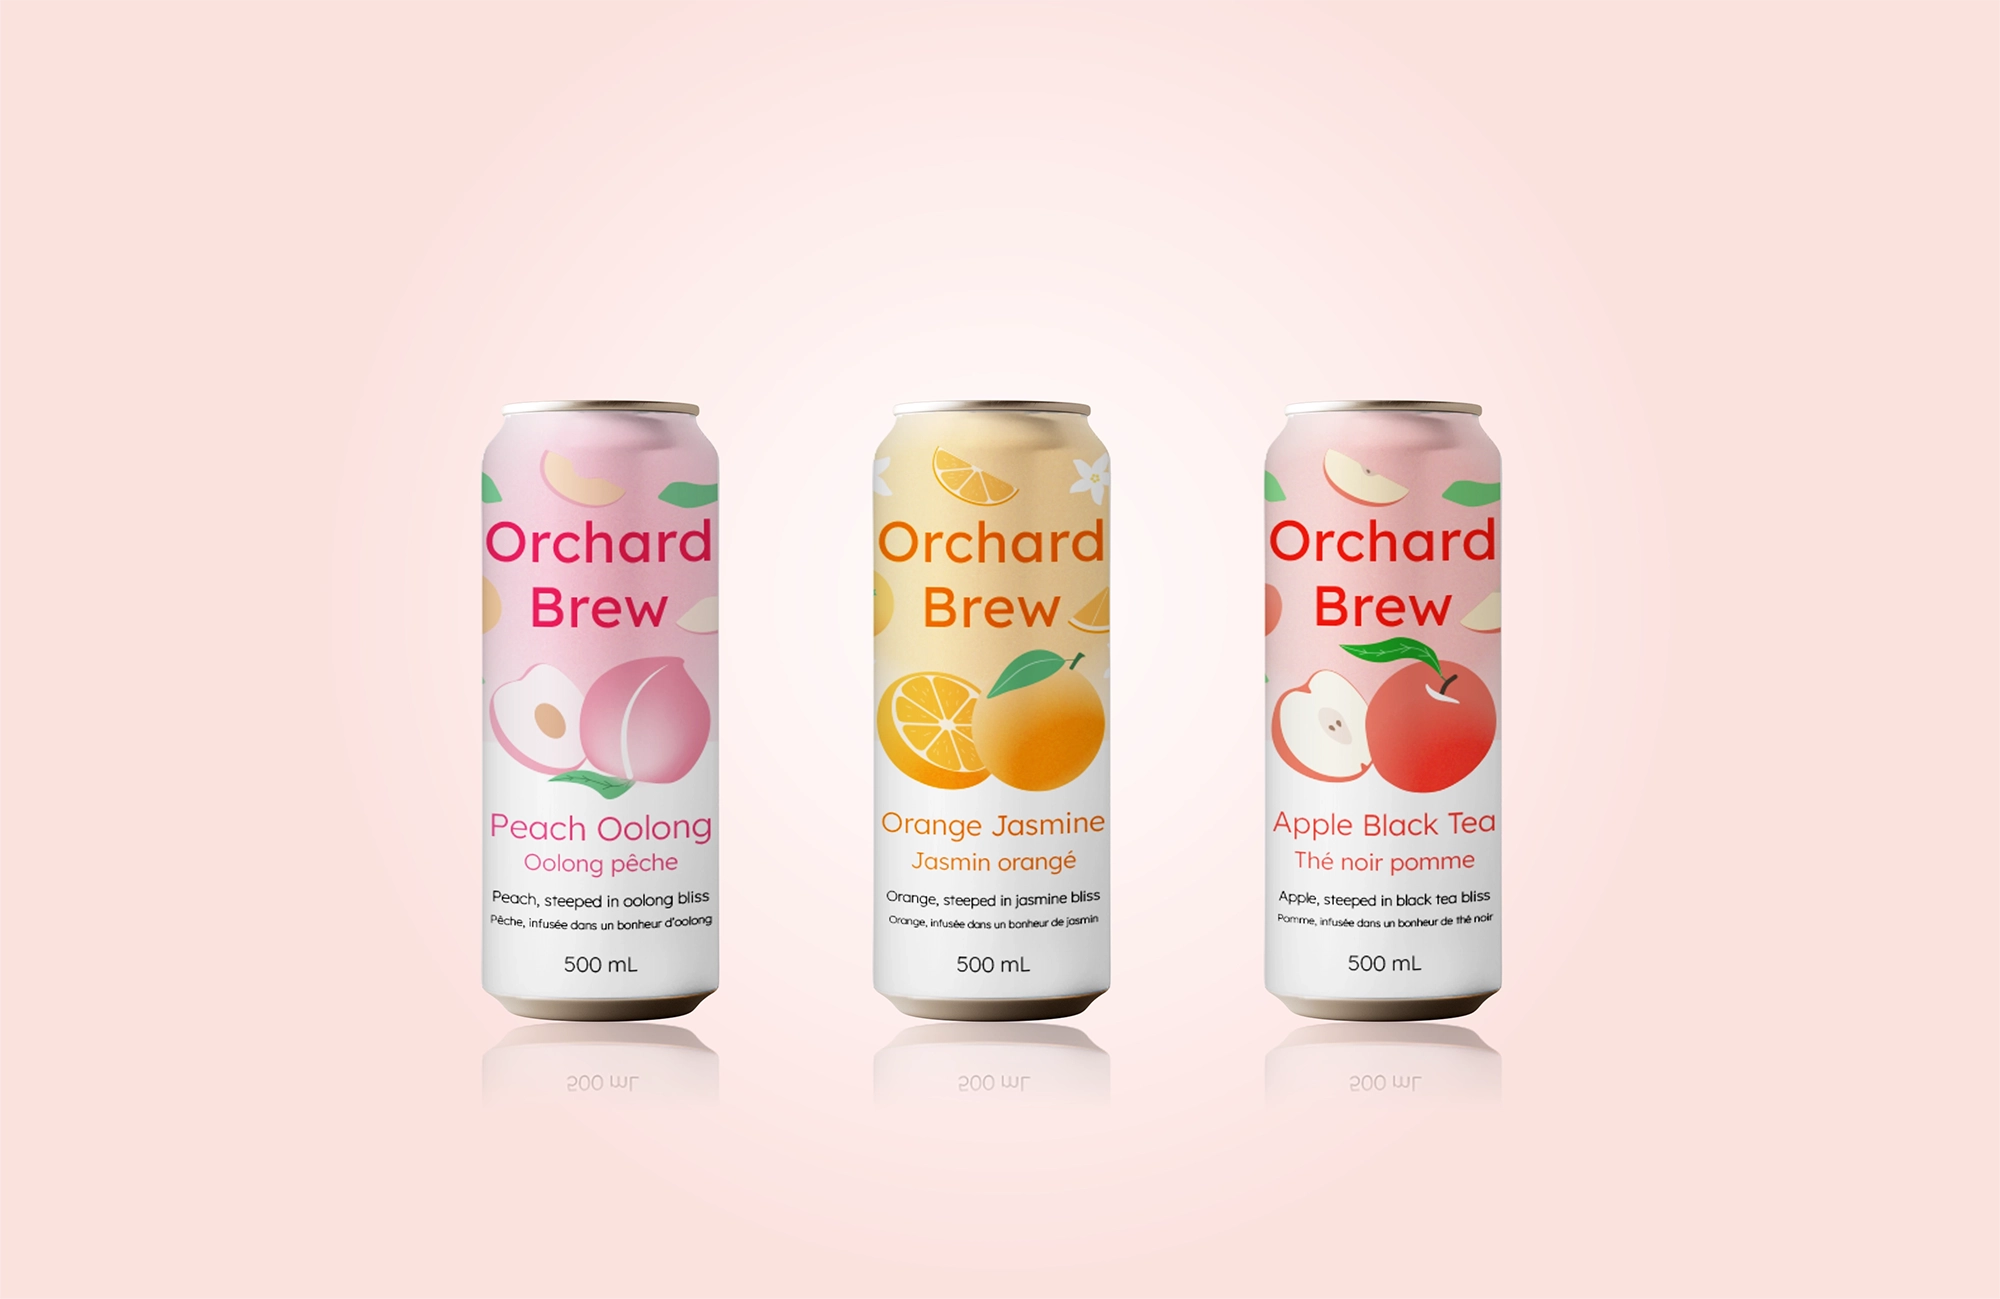
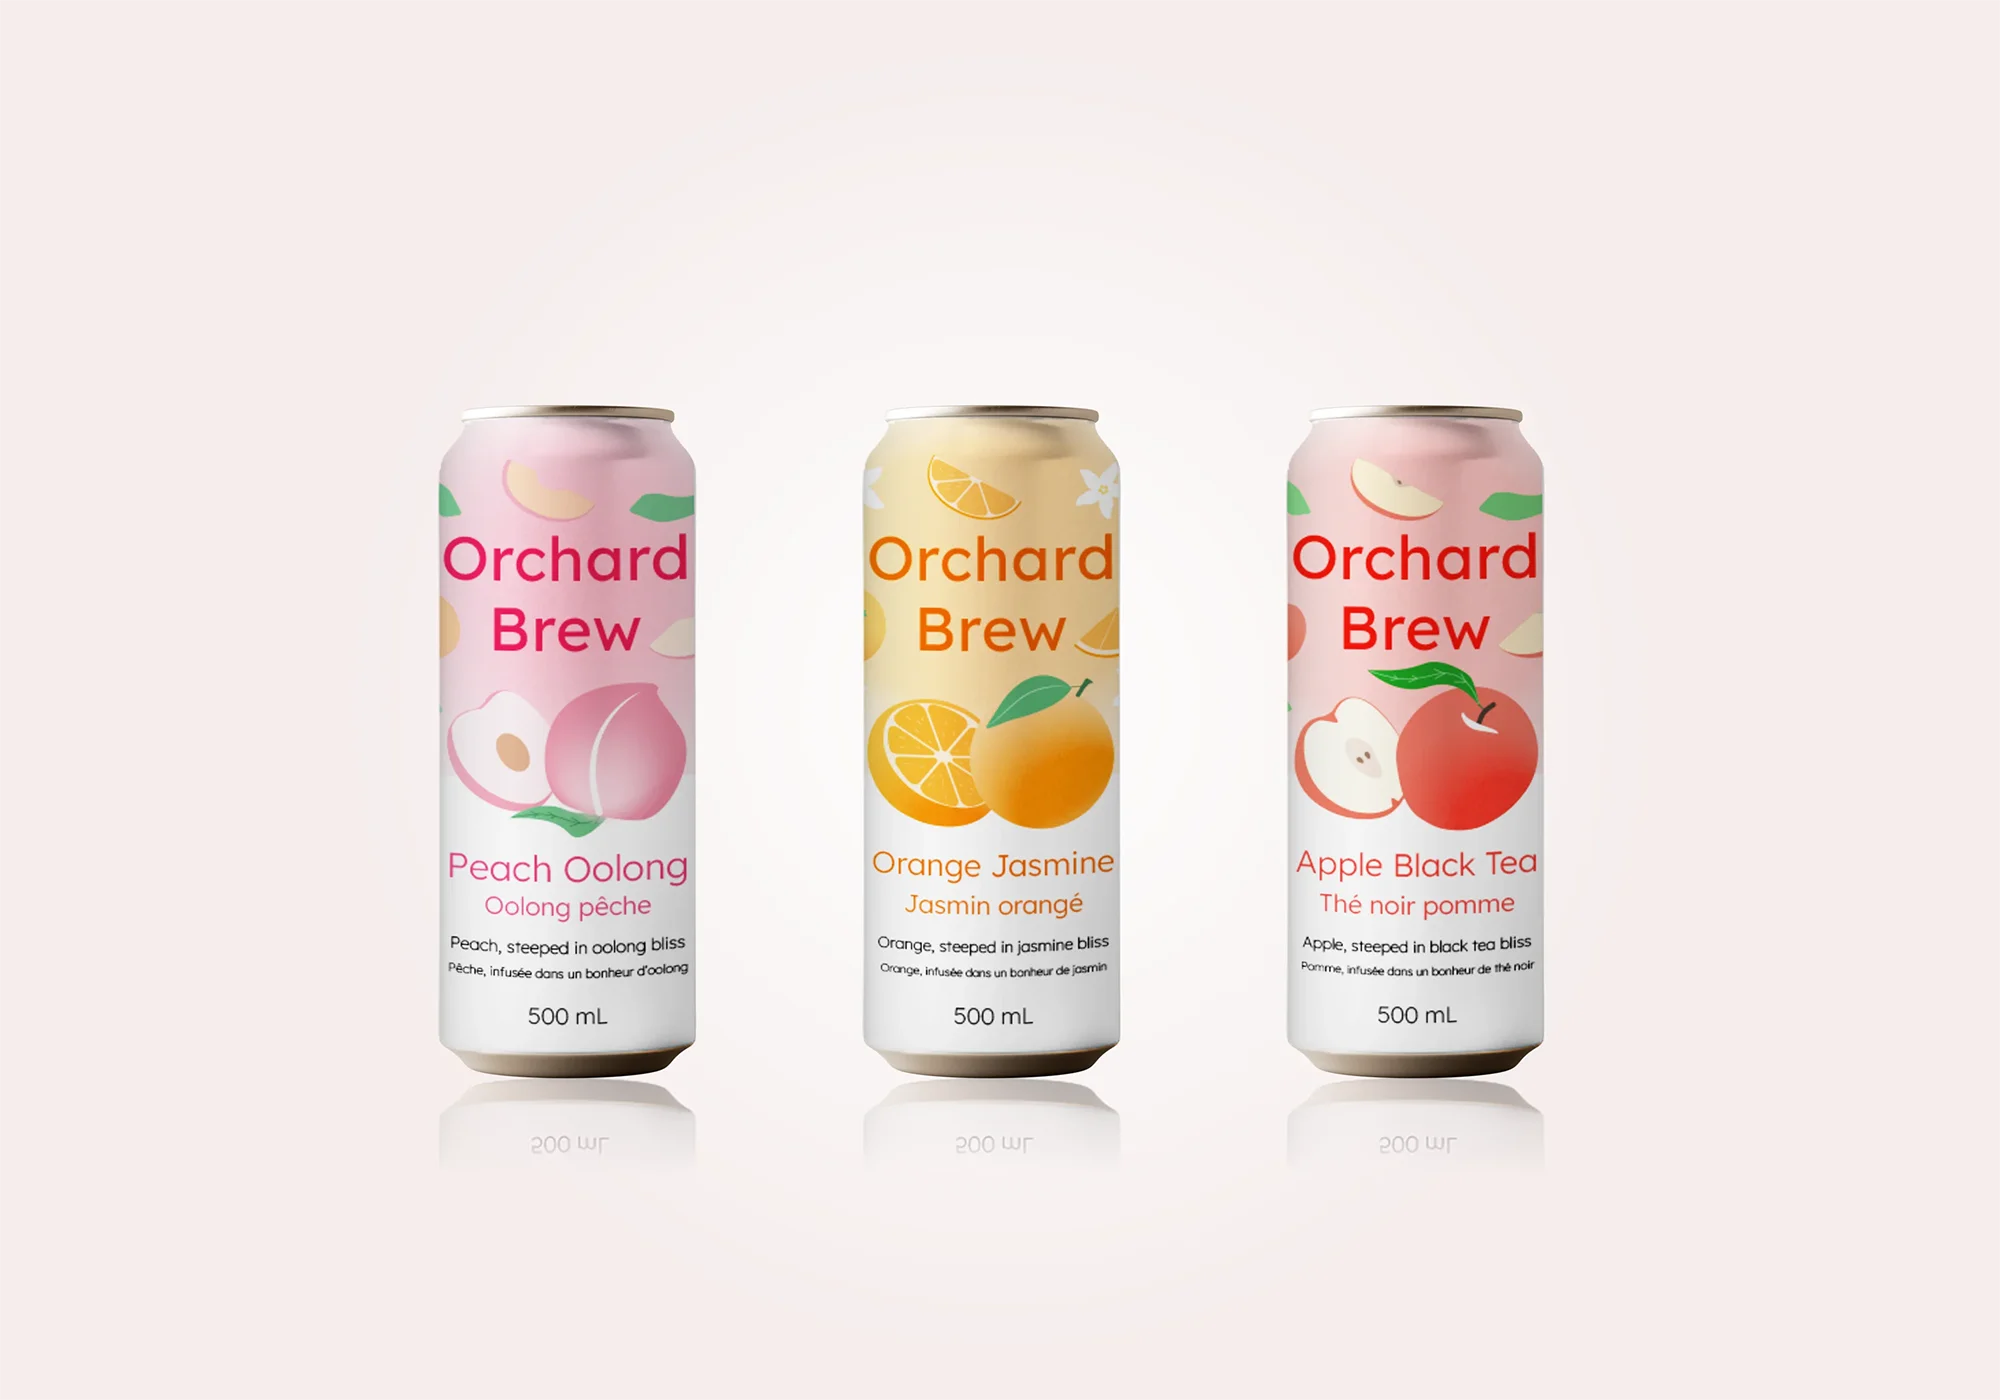
docs: update images

Changed region(s): [[0.217, 0.2771, 0.372, 0.8314], [0.62, 0.2771, 0.775, 0.8314], [0.434, 0.2771, 0.558, 0.8314]]

diff --git a/src/app/design/can-design/page.tsx b/src/app/design/can-design/page.tsx
@@ -4,7 +4,7 @@ import ParallaxImage from "@/components/ParallaxImage";
 import ProjectOverview from "@/components/ProjectOverview";
 import SectionDivider from "@/components/SectionDivider";
 import Image from "next/image";
-import HeroImg from "@/images/design/can-design/hero.webp";
+import HeroImg from "@/images/design/can-design/can-hero.webp";
 import LabelPeach from "@/images/design/can-design/label-peach.png";
 import LabelOrange from "@/images/design/can-design/label-orange.png";
 import LabelApple from "@/images/design/can-design/label-apple.png";
